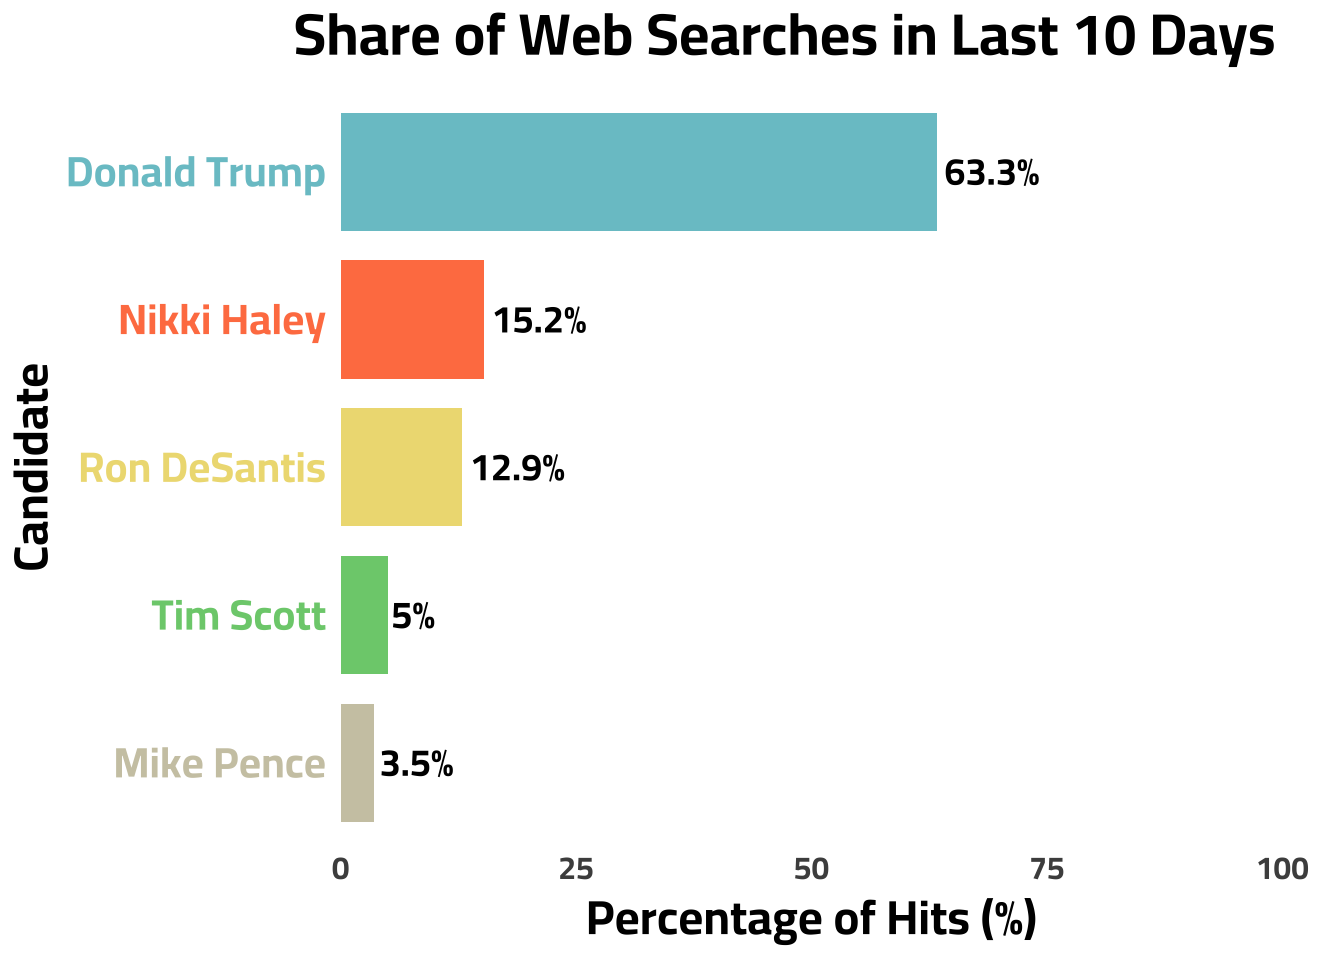
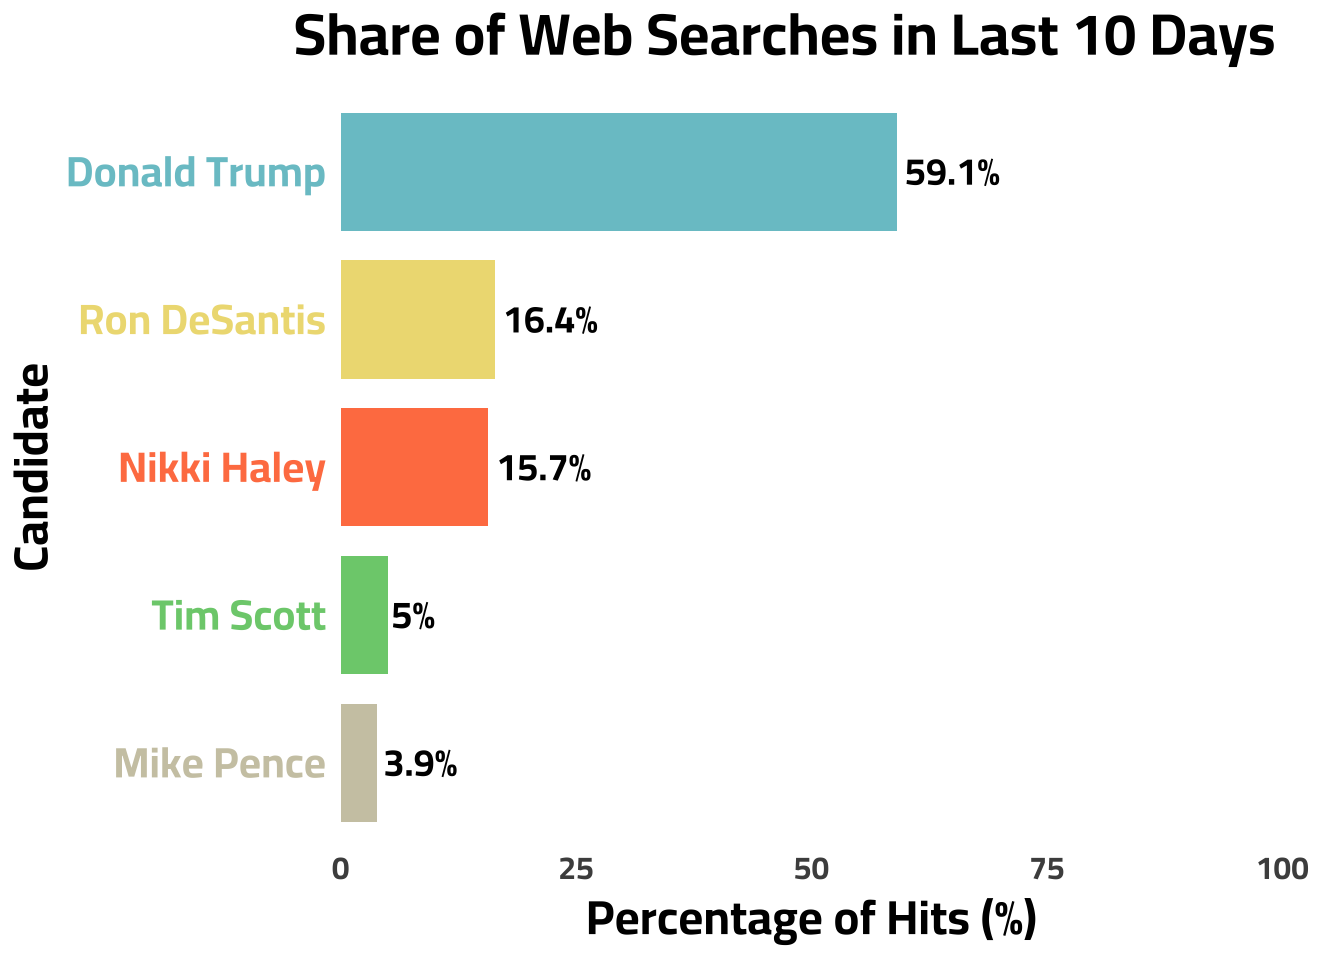
StreamGraph Update

Changed region(s): [[0.0625, 0.25, 0.4375, 0.5625], [0.6562, 0.0938, 0.7812, 0.25], [0.2812, 0.7812, 0.3438, 0.8125]]

diff --git a/_site/blog.html b/_site/blog.html
@@ -178,7 +178,7 @@ ul.task-list li input[type="checkbox"] {
 
 <div class="quarto-listing quarto-listing-container-default" id="listing-listing">
 <div class="list quarto-listing-default">
-<div class="quarto-post image-right" data-index="0" data-categories="CICD,Quarto" data-listing-date-sort="1694044800000" data-listing-file-modified-sort="1694175732594" data-listing-date-modified-sort="NaN" data-listing-reading-time-sort="8">
+<div class="quarto-post image-right" data-index="0" data-categories="CICD,Quarto" data-listing-date-sort="1694044800000" data-listing-file-modified-sort="1694262039381" data-listing-date-modified-sort="NaN" data-listing-reading-time-sort="8">
 <div class="thumbnail">
 <p><a href="./posts/cicd_primary/index.html"> <img src="https://external-content.duckduckgo.com/iu/?u=https%3A%2F%2Fwww.adictosaltrabajo.com%2Fwp-content%2Fuploads%2F2020%2F10%2Fandroid-github-actions-setup-image-35b6a79fea4a7289acb6796cd4ad05b4.png&amp;f=1&amp;nofb=1&amp;ipt=b02a4ecfb6e2d666f35916b643a6f3e9907e880252d1e19d3eda47521252e9c3&amp;ipo=images" class="thumbnail-image"> </a></p>
 </div>
@@ -209,7 +209,7 @@ Sep 7, 2023
 </a>
 </div>
 </div>
-<div class="quarto-post image-right" data-index="1" data-categories="Google Trends,Data Journalism,Politics,CICD" data-listing-date-sort="1689033600000" data-listing-file-modified-sort="1694175732596" data-listing-date-modified-sort="NaN" data-listing-reading-time-sort="7">
+<div class="quarto-post image-right" data-index="1" data-categories="Google Trends,Data Journalism,Politics,CICD" data-listing-date-sort="1689033600000" data-listing-file-modified-sort="1694262039384" data-listing-date-modified-sort="NaN" data-listing-reading-time-sort="7">
 <div class="thumbnail">
 <p><a href="./posts/primary_stream/index.html"> <img src="././about_files/primary_1.png" class="thumbnail-image"> </a></p>
 </div>
@@ -246,7 +246,7 @@ Jul 11, 2023
 </a>
 </div>
 </div>
-<div class="quarto-post image-right" data-index="2" data-categories="Life Hacks,Quarto" data-listing-date-sort="1688601600000" data-listing-file-modified-sort="1694175732597" data-listing-date-modified-sort="NaN" data-listing-reading-time-sort="3">
+<div class="quarto-post image-right" data-index="2" data-categories="Life Hacks,Quarto" data-listing-date-sort="1688601600000" data-listing-file-modified-sort="1694262039385" data-listing-date-modified-sort="NaN" data-listing-reading-time-sort="3">
 <div class="thumbnail">
 <p><a href="./posts/simple_analytics/index.html"> <img src="./about_files/Simple_Analytics.png" class="thumbnail-image"> </a></p>
 </div>
@@ -277,7 +277,7 @@ Jul 6, 2023
 </a>
 </div>
 </div>
-<div class="quarto-post image-right" data-index="3" data-categories="Data Journalism,Google Trends,Politics" data-listing-date-sort="1687824000000" data-listing-file-modified-sort="1694175732594" data-listing-date-modified-sort="NaN" data-listing-reading-time-sort="7">
+<div class="quarto-post image-right" data-index="3" data-categories="Data Journalism,Google Trends,Politics" data-listing-date-sort="1687824000000" data-listing-file-modified-sort="1694262039382" data-listing-date-modified-sort="NaN" data-listing-reading-time-sort="7">
 <div class="thumbnail">
 <p><a href="./posts/google_trends/index.html"> <img src="./about_files/byteman.png" class="thumbnail-image"> </a></p>
 </div>
@@ -311,7 +311,7 @@ Jun 27, 2023
 </a>
 </div>
 </div>
-<div class="quarto-post image-right" data-index="4" data-categories="Data Journalism,LDS,R" data-listing-date-sort="1675728000000" data-listing-file-modified-sort="1694175732595" data-listing-date-modified-sort="NaN" data-listing-reading-time-sort="4">
+<div class="quarto-post image-right" data-index="4" data-categories="Data Journalism,LDS,R" data-listing-date-sort="1675728000000" data-listing-file-modified-sort="1694262039383" data-listing-date-modified-sort="NaN" data-listing-reading-time-sort="4">
 <div class="thumbnail">
 <p><a href="./posts/income_myth/index.html"> <img src="./about_files/LDS_myth_0.png" class="thumbnail-image"> </a></p>
 </div>
@@ -345,7 +345,7 @@ Feb 7, 2023
 </a>
 </div>
 </div>
-<div class="quarto-post image-right" data-index="5" data-categories="Life Hacks,Quarto" data-listing-date-sort="1662076800000" data-listing-file-modified-sort="1694175732597" data-listing-date-modified-sort="NaN" data-listing-reading-time-sort="3">
+<div class="quarto-post image-right" data-index="5" data-categories="Life Hacks,Quarto" data-listing-date-sort="1662076800000" data-listing-file-modified-sort="1694262039385" data-listing-date-modified-sort="NaN" data-listing-reading-time-sort="3">
 <div class="thumbnail">
 <p><a href="./posts/resume/index.html"> <img src="./about_files/resume_2.png" class="thumbnail-image"> </a></p>
 </div>
@@ -376,7 +376,7 @@ Sep 2, 2022
 </a>
 </div>
 </div>
-<div class="quarto-post image-right" data-index="6" data-categories="Survey Research,Data Journalism,LDS" data-listing-date-sort="1646265600000" data-listing-file-modified-sort="1694175732593" data-listing-date-modified-sort="NaN" data-listing-reading-time-sort="7">
+<div class="quarto-post image-right" data-index="6" data-categories="Survey Research,Data Journalism,LDS" data-listing-date-sort="1646265600000" data-listing-file-modified-sort="1694262039380" data-listing-date-modified-sort="NaN" data-listing-reading-time-sort="7">
 <div class="thumbnail">
 <p><a href="./posts/7_facts/index.html"> <img src="https://www.ldstemple.pics/wp-content/uploads/washington-dc-temple-final-sunset-600x600.jpg" class="thumbnail-image"> </a></p>
 </div>
@@ -410,7 +410,7 @@ Mar 3, 2022
 </a>
 </div>
 </div>
-<div class="quarto-post image-right" data-index="7" data-categories="Data Journalism,R" data-listing-date-sort="1618012800000" data-listing-file-modified-sort="1694175732594" data-listing-date-modified-sort="NaN" data-listing-reading-time-sort="4">
+<div class="quarto-post image-right" data-index="7" data-categories="Data Journalism,R" data-listing-date-sort="1618012800000" data-listing-file-modified-sort="1694262039382" data-listing-date-modified-sort="NaN" data-listing-reading-time-sort="4">
 <div class="thumbnail">
 <p><a href="./posts/facebook_data/index.html"> <img src="./about_files/fb_icon" class="thumbnail-image"> </a></p>
 </div>
@@ -441,7 +441,7 @@ Apr 10, 2021
 </a>
 </div>
 </div>
-<div class="quarto-post image-right" data-index="8" data-categories="Data Journalism,R,Survey Research,LDS,Politics" data-listing-date-sort="1607472000000" data-listing-file-modified-sort="1694175732595" data-listing-date-modified-sort="NaN" data-listing-reading-time-sort="8">
+<div class="quarto-post image-right" data-index="8" data-categories="Data Journalism,R,Survey Research,LDS,Politics" data-listing-date-sort="1607472000000" data-listing-file-modified-sort="1694262039383" data-listing-date-modified-sort="NaN" data-listing-reading-time-sort="8">
 <div class="thumbnail">
 <p><a href="./posts/lds_gop/index.html"> <img src="./about_files/iu-3.jpeg" class="thumbnail-image"> </a></p>
 </div>
@@ -481,7 +481,7 @@ Dec 9, 2020
 </a>
 </div>
 </div>
-<div class="quarto-post image-right" data-index="9" data-categories="Data Journalism,R" data-listing-date-sort="1594339200000" data-listing-file-modified-sort="1694175732593" data-listing-date-modified-sort="NaN" data-listing-reading-time-sort="7">
+<div class="quarto-post image-right" data-index="9" data-categories="Data Journalism,R" data-listing-date-sort="1594339200000" data-listing-file-modified-sort="1694262039381" data-listing-date-modified-sort="NaN" data-listing-reading-time-sort="7">
 <div class="thumbnail">
 <p><a href="./posts/cars/index.html"> <img src="https://media.giphy.com/media/rUE9CTmsYMbbOz2MqD/giphy.gif" class="thumbnail-image"> </a></p>
 </div>
@@ -512,7 +512,7 @@ Jul 10, 2020
 </a>
 </div>
 </div>
-<div class="quarto-post image-right" data-index="10" data-categories="Data Journalism,R,Shiny" data-listing-date-sort="1591660800000" data-listing-file-modified-sort="1694175732596" data-listing-date-modified-sort="NaN" data-listing-reading-time-sort="7">
+<div class="quarto-post image-right" data-index="10" data-categories="Data Journalism,R,Shiny" data-listing-date-sort="1591660800000" data-listing-file-modified-sort="1694262039384" data-listing-date-modified-sort="NaN" data-listing-reading-time-sort="7">
 <div class="thumbnail">
 <p><a href="./posts/mobility/index.html"> <img src="./about_files/iu-2.jpeg" class="thumbnail-image"> </a></p>
 </div>

diff --git a/_site/projects.html b/_site/projects.html
@@ -178,7 +178,7 @@ ul.task-list li input[type="checkbox"] {
 
 <div class="quarto-listing quarto-listing-container-grid" id="listing-listing">
 <div class="list grid quarto-listing-cols-3">
-<div class="g-col-1" data-index="0" data-categories="Capstone,Python,Stats" data-listing-date-sort="1682899200000" data-listing-file-modified-sort="1694175732614" data-listing-date-modified-sort="NaN" data-listing-reading-time-sort="4">
+<div class="g-col-1" data-index="0" data-categories="Capstone,Python,Stats" data-listing-date-sort="1682899200000" data-listing-file-modified-sort="1694262039400" data-listing-date-modified-sort="NaN" data-listing-reading-time-sort="4">
 <a href="./projects/internet_archive/index.html" class="quarto-grid-link">
 <div class="quarto-grid-item card h-100 card-left">
 <p class="card-img-top">
@@ -211,7 +211,7 @@ May 1, 2023
 </div>
 </a>
 </div>
-<div class="g-col-1" data-index="1" data-categories="Python,Stats,Dataviz" data-listing-date-sort="1660867200000" data-listing-file-modified-sort="1694175732609" data-listing-date-modified-sort="NaN" data-listing-reading-time-sort="10">
+<div class="g-col-1" data-index="1" data-categories="Python,Stats,Dataviz" data-listing-date-sort="1660867200000" data-listing-file-modified-sort="1694262039396" data-listing-date-modified-sort="NaN" data-listing-reading-time-sort="10">
 <a href="./projects/bayesian_county/index.html" class="quarto-grid-link">
 <div class="quarto-grid-item card h-100 card-left">
 <p class="card-img-top">
@@ -244,7 +244,7 @@ Aug 19, 2022
 </div>
 </a>
 </div>
-<div class="g-col-1" data-index="2" data-categories="CI/CD,R,Dataviz" data-listing-date-sort="1636329600000" data-listing-file-modified-sort="1694175732609" data-listing-date-modified-sort="NaN" data-listing-reading-time-sort="3">
+<div class="g-col-1" data-index="2" data-categories="CI/CD,R,Dataviz" data-listing-date-sort="1636329600000" data-listing-file-modified-sort="1694262039396" data-listing-date-modified-sort="NaN" data-listing-reading-time-sort="3">
 <a href="./projects/covid_update/index.html" class="quarto-grid-link">
 <div class="quarto-grid-item card h-100 card-left">
 <p class="card-img-top">
@@ -277,7 +277,7 @@ Nov 8, 2021
 </div>
 </a>
 </div>
-<div class="g-col-1" data-index="3" data-categories="Dataviz,Stats,R" data-listing-date-sort="1600387200000" data-listing-file-modified-sort="1694175732611" data-listing-date-modified-sort="NaN" data-listing-reading-time-sort="2">
+<div class="g-col-1" data-index="3" data-categories="Dataviz,Stats,R" data-listing-date-sort="1600387200000" data-listing-file-modified-sort="1694262039398" data-listing-date-modified-sort="NaN" data-listing-reading-time-sort="2">
 <a href="./projects/election_model/index.html" class="quarto-grid-link">
 <div class="quarto-grid-item card h-100 card-left">
 <p class="card-img-top">
@@ -310,7 +310,7 @@ Sep 18, 2020
 </div>
 </a>
 </div>
-<div class="g-col-1" data-index="4" data-categories="R,Shiny" data-listing-date-sort="1596153600000" data-listing-file-modified-sort="1694175732614" data-listing-date-modified-sort="NaN" data-listing-reading-time-sort="2">
+<div class="g-col-1" data-index="4" data-categories="R,Shiny" data-listing-date-sort="1596153600000" data-listing-file-modified-sort="1694262039400" data-listing-date-modified-sort="NaN" data-listing-reading-time-sort="2">
 <a href="./projects/peanuts/index.html" class="quarto-grid-link">
 <div class="quarto-grid-item card h-100 card-left">
 <p class="card-img-top">
@@ -340,7 +340,7 @@ Jul 31, 2020
 </div>
 </a>
 </div>
-<div class="g-col-1" data-index="5" data-categories="Capstone,R,Stats" data-listing-date-sort="1587772800000" data-listing-file-modified-sort="1694175732616" data-listing-date-modified-sort="NaN" data-listing-reading-time-sort="6">
+<div class="g-col-1" data-index="5" data-categories="Capstone,R,Stats" data-listing-date-sort="1587772800000" data-listing-file-modified-sort="1694262039403" data-listing-date-modified-sort="NaN" data-listing-reading-time-sort="6">
 <a href="./projects/star_wars_capstone/index.html" class="quarto-grid-link">
 <div class="quarto-grid-item card h-100 card-left">
 <p class="card-img-top">

diff --git a/_site/posts/primary_stream/index.html b/_site/posts/primary_stream/index.html
@@ -181,7 +181,7 @@ Note
 </div>
 </div>
 <div class="callout-body-container callout-body">
-<p>This graph is updated on a daily basis to provide continuous context to the GOP Primary Election. This graph was last updated: 12:22:20 on 08 Sep 2023</p>
+<p>This graph is updated on a daily basis to provide continuous context to the GOP Primary Election. This graph was last updated: 12:20:50 on 09 Sep 2023</p>
 </div>
 </div>
 <div class="cell">
@@ -234,7 +234,7 @@ Note
 </div>
 </div>
 <div class="callout-body-container callout-body">
-<p>This graph is updated on a daily basis to provide continuous context to the GOP Primary Election. This graph was last updated: 12:22:27 on 08 Sep 2023</p>
+<p>This graph is updated on a daily basis to provide continuous context to the GOP Primary Election. This graph was last updated: 12:20:59 on 09 Sep 2023</p>
 </div>
 </div>
 <p>This graph is provided to give a barometer reading of a candidates <em>recent</em> popularity/news coverage.</p>
